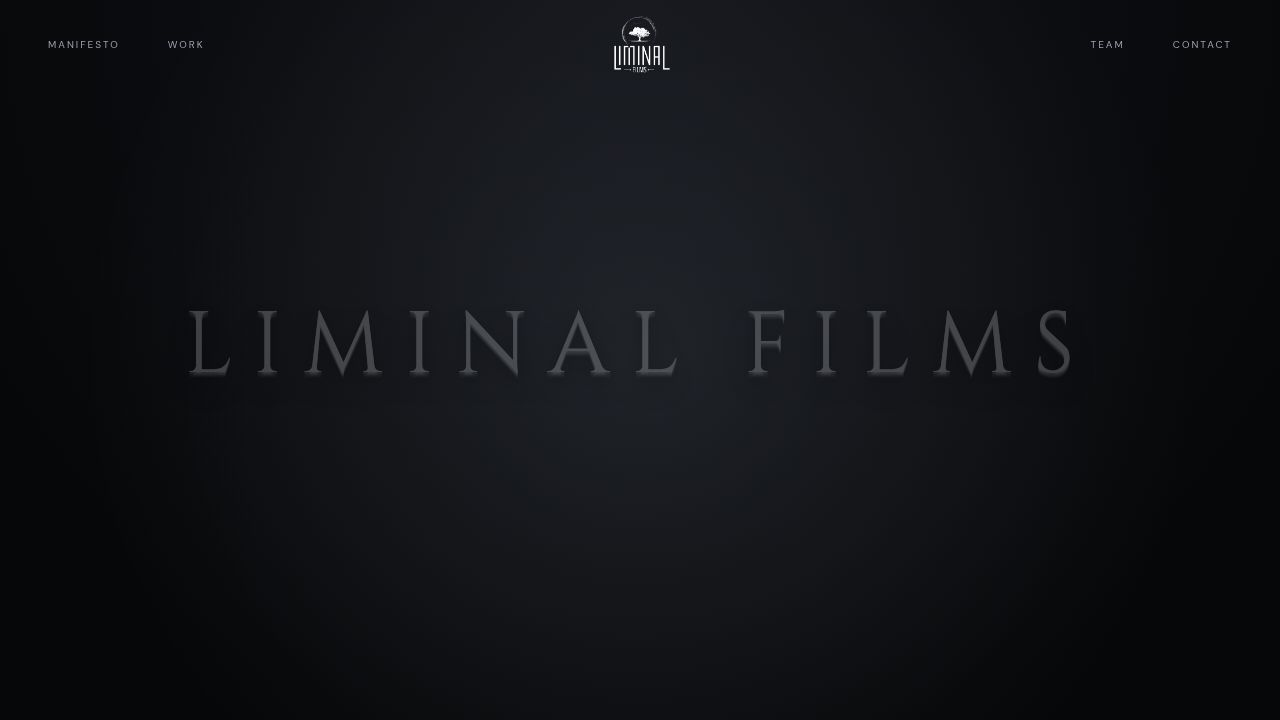
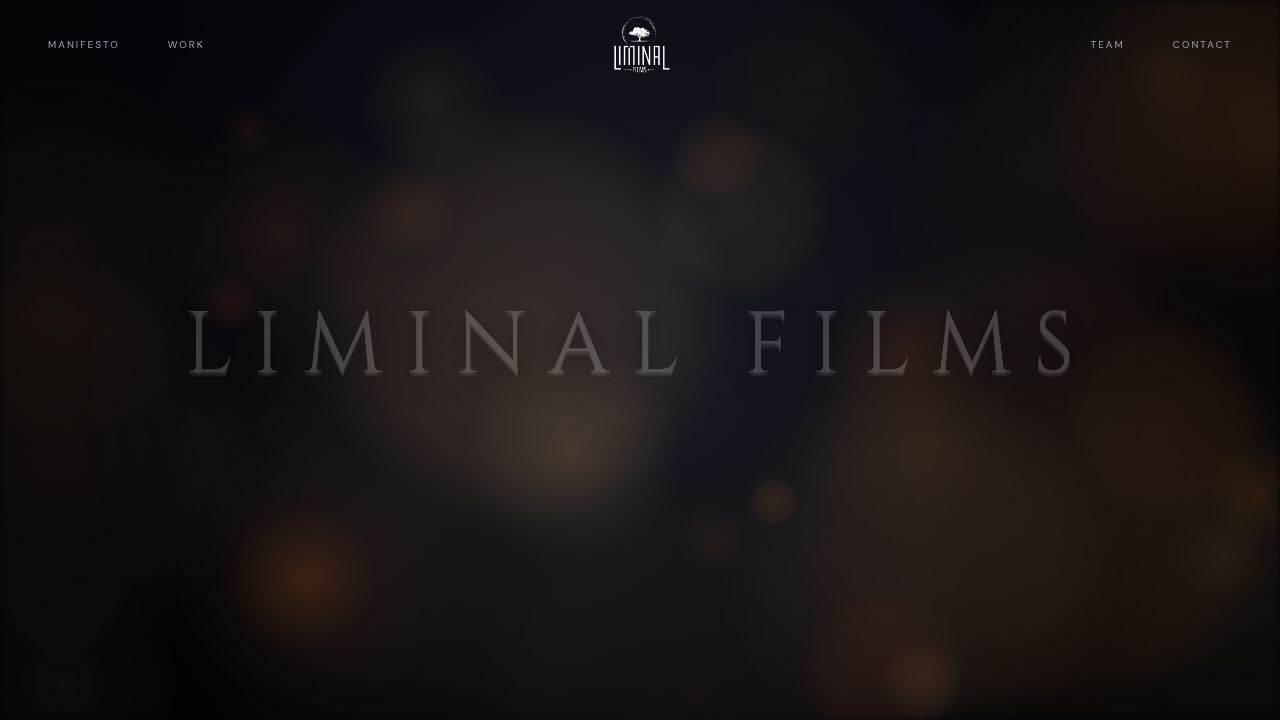
Make particle interactions smoother and evenly distributed
Refactor BokehBackground.tsx to separate logical particle positions from visual rendering, allowing particles to be pushed away from the cursor without permanently altering their paths and ensuring even distribution.

Replit-Commit-Author: Agent
Replit-Commit-Session-Id: ff2ce0f0-7cad-4375-b4a2-53d2b1b7dc89
Replit-Commit-Checkpoint-Type: full_checkpoint
Replit-Commit-Event-Id: fed1ce97-6c95-413a-909f-a2a9525853b4
Replit-Commit-Screenshot-Url: https://storage.googleapis.com/screenshot-production-us-central1/48974fb6-187f-4aca-91dc-7ac49f2044b8/ff2ce0f0-7cad-4375-b4a2-53d2b1b7dc89/G4hZP3S
Replit-Helium-Checkpoint-Created: true

diff --git a/client/src/components/BokehBackground.tsx b/client/src/components/BokehBackground.tsx
@@ -81,45 +81,46 @@ export function BokehBackground() {
       mouseY += (targetMouseY - mouseY) * 0.05;
 
       particles.forEach((p) => {
-        // Calculate distance to mouse spotlight
-        const dx = p.x - mouseX;
-        const dy = p.y - mouseY;
-        const distance = Math.sqrt(dx * dx + dy * dy);
-        
-        // Spotlight interaction parameters
-        const interactionRadius = 500; // How far the mouse pushes particles
-        const pushStrength = 0.15;     // How hard it pushes them (increased for more repulsion)
-        
-        if (distance < interactionRadius) {
-          // Push particles away from the center of the spotlight
-          const force = (interactionRadius - distance) / interactionRadius;
-          // Apply a gentle curve to the force so it feels like soft fluid dynamics
-          const smoothForce = Math.pow(force, 2) * pushStrength;
-          
-          p.x += (dx / distance) * smoothForce * 100;
-          p.y += (dy / distance) * smoothForce * 100;
-        }
-
-        // Complex wandering motion
+        // 1. Update true logical position (unaffected by mouse)
         p.wobbleAngle += p.wobbleSpeed;
         p.y += p.speedY + Math.sin(p.wobbleAngle) * 0.5;
         p.x += p.speedX + Math.cos(p.wobbleAngle) * 0.5;
 
-        // Wrap around smoothly
+        // 2. Wrap around smoothly
         if (p.y + p.size < 0) p.y = canvas.height + p.size;
         if (p.y - p.size > canvas.height) p.y = -p.size;
         if (p.x > canvas.width + p.size) p.x = -p.size;
         if (p.x < -p.size) p.x = canvas.width + p.size;
 
-        // Draw bokeh with varying levels of blurriness
+        // 3. Calculate visual position (temporarily pushed by mouse)
+        let renderX = p.x;
+        let renderY = p.y;
+        
+        const dx = p.x - mouseX;
+        const dy = p.y - mouseY;
+        const distance = Math.sqrt(dx * dx + dy * dy);
+        
+        const interactionRadius = 300; // Radius of repulsion
+        const maxPush = 80;           // Max pixels to push away visually
+        
+        if (distance < interactionRadius && distance > 0) {
+          const force = (interactionRadius - distance) / interactionRadius;
+          // Apply a gentle curve
+          const smoothForce = Math.pow(force, 2);
+          
+          renderX += (dx / distance) * smoothForce * maxPush;
+          renderY += (dy / distance) * smoothForce * maxPush;
+        }
+
+        // 4. Draw bokeh at visual position
         ctx.beginPath();
-        const gradient = ctx.createRadialGradient(p.x, p.y, 0, p.x, p.y, p.size);
+        const gradient = ctx.createRadialGradient(renderX, renderY, 0, renderX, renderY, p.size);
         gradient.addColorStop(0, `rgba(${p.color}, ${p.opacity})`);
         gradient.addColorStop(p.blurFalloff, `rgba(${p.color}, ${p.opacity * 0.6})`);
         gradient.addColorStop(1, `rgba(${p.color}, 0)`);
         
         ctx.fillStyle = gradient;
-        ctx.arc(p.x, p.y, p.size, 0, Math.PI * 2);
+        ctx.arc(renderX, renderY, p.size, 0, Math.PI * 2);
         ctx.fill();
       });
 